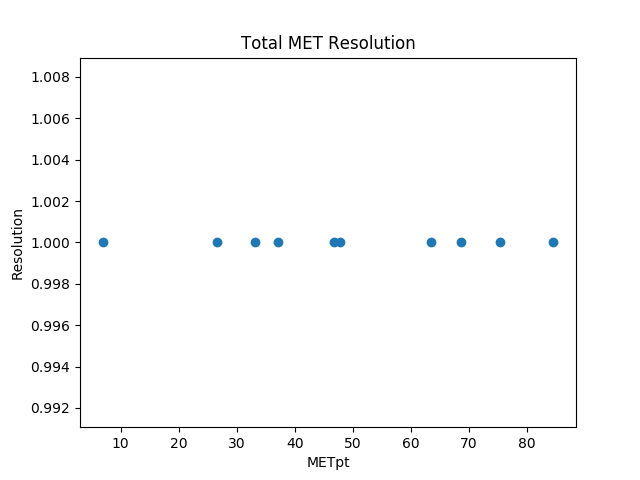
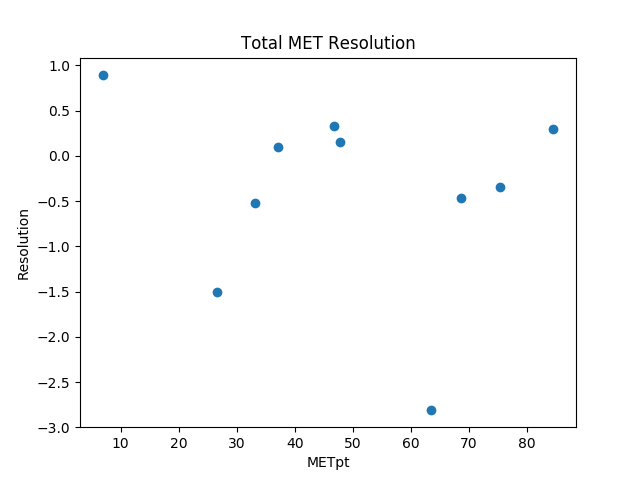
stuff

diff --git a/printMET.py b/printMET.py
@@ -37,9 +37,9 @@ def main():
     respx = []
     respy = []
     for i in range(len(metpt)):
-	resopt = (metpt[i]-genmetpt[i])/metpt[i]
-	resopx = (metpx[i]-genmetpx[i])/metpx[i]
-	resopy = (metpy[i]-genmetpy[i])/metpy[i]
+	resopt = (genmetpt[i]-metpt[i])/genmetpt[i]
+	resopx = (genmetpx[i]-metpx[i])/genmetpx[i]
+	resopy = (genmetpy[i]-metpy[i])/genmetpy[i]
 
 	respt.append(resopt)
 	respx.append(resopx)
@@ -125,8 +125,8 @@ def count(inputPath, metpt, metpx, metpy, genmetpt, genmetpx, genmetpy):
 	metpx.append(met.px())
         metpy.append(met.py())
 
-	event.getByLabel(("genMetCalo", "", "DIGI2RAW"), handleGenMETs)
-	genmet = handleGenMETs.product().front()
+	event.getByLabel(("caloMet", "", "RECO"), handleCaloMETs)
+	genmet = handleCaloMETs.product().front()
 
 	genmetpt.append(genmet.pt())
 	genmetpx.append(genmet.px())
